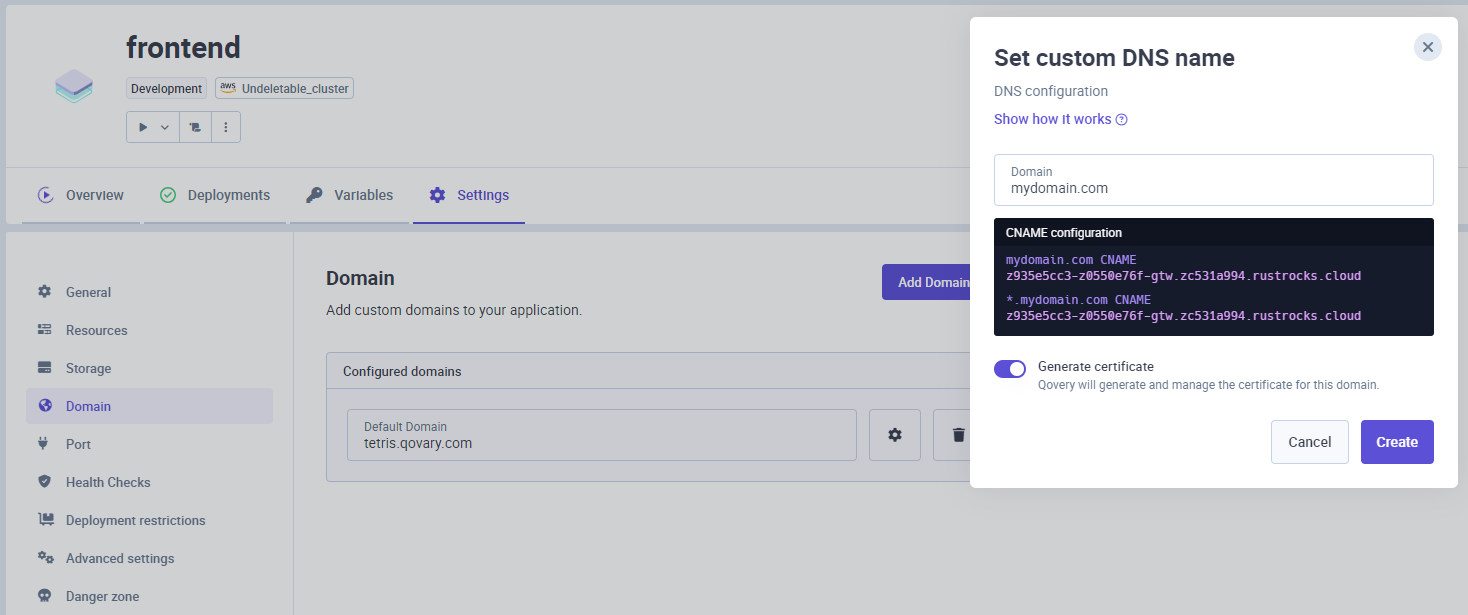
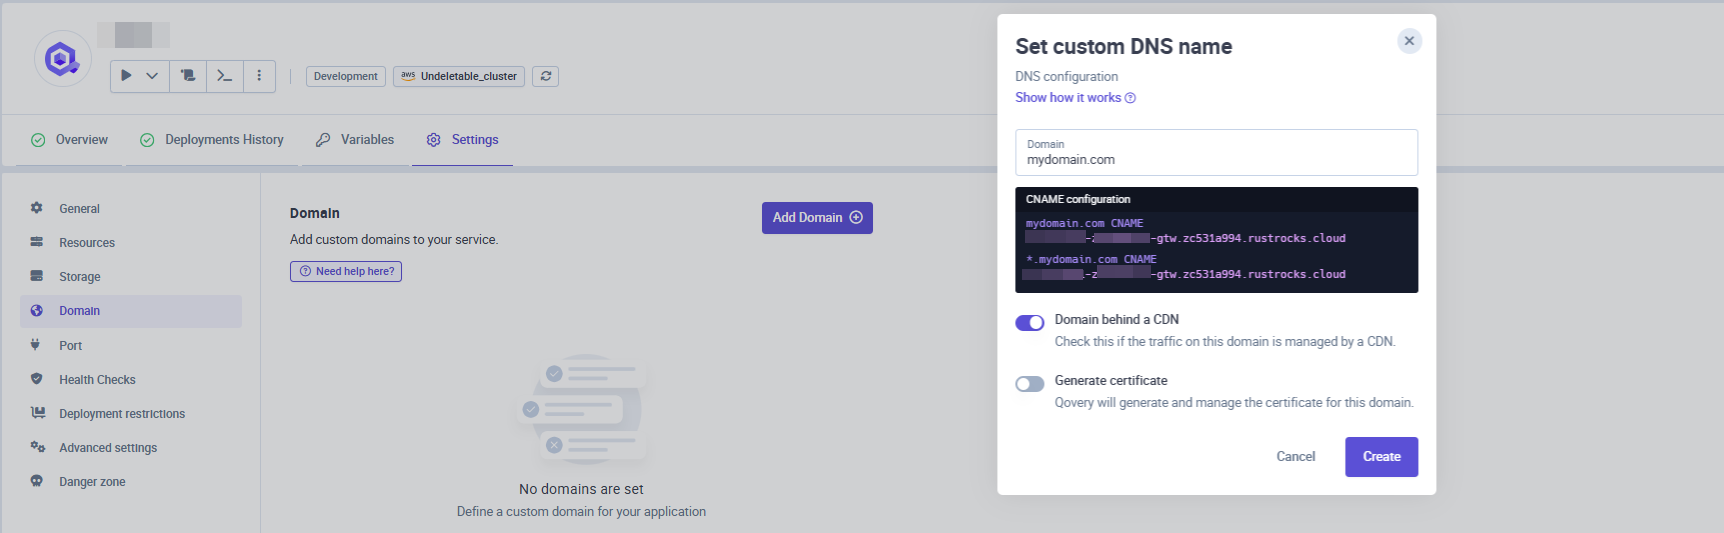
Update Cloudflare tutorial

diff --git a/website/guides/tutorial/setting-up-cloudflare-and-custom-domain-on-qovery.md b/website/guides/tutorial/setting-up-cloudflare-and-custom-domain-on-qovery.md
@@ -1,5 +1,5 @@
 ---
-last_modified_on: "2023-12-12"
+last_modified_on: "2025-01-06"
 $schema: "/.meta/.schemas/guides.json"
 title: Setting up Cloudflare and Custom Domain on Qovery
 description: Using Cloudflare for applications deployed on Qovery
@@ -39,11 +39,14 @@ Add your Cloudflare managed domain in `Domain` section:
   <img src="/img/cloudflare/3.png" alt="Cloudflare" />
 </p>
 
+
+Since your domain is behind a CDN (Cloudflare), you need to switch on the `Domain behind a CDN` toggle. This will automatically switch off the `Generate certificate` toggle because Qovery won't be able to manage it, as it will be handled by Cloudflare.
+
 ## Cloudflare Configuration
 
 ### CNAME
 
-To finish the configuration on Cloudfalre, open the DNS Settings:
+To finish the configuration on Cloudflare, open the DNS Settings:
 
 <p align="center">
   <img src="/img/cloudflare/4.png" alt="Cloudflare" />
